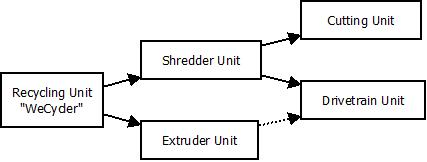
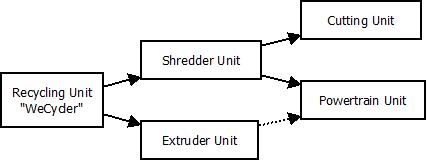
recycler readme vorbereitungen

Changed region(s): [[0.7307, 0.5864, 0.9742, 0.6481]]

diff --git a/recycler/README.md b/recycler/README.md
@@ -13,7 +13,7 @@
 
 + the [powertrain](#Power) module can be attached to either the shredder or the extruder with the purpose of saving weight and costs
 
-+ Special requirements for the recycler to be used in the cubefactory 2:
++ special requirements for the recycler to be used in the cubefactory 2:
 	+ to be compact (small package)
 	+ to be lightweight
 	+ low power consuption 
@@ -41,9 +41,9 @@ The Shredder aims to mechanically shred the input material into small, similar s
 
 
 ### Realization
-+ picture shredder __TODO__ (erstellen aus STEP/SLDPRT)
-+ the rotor is realized by a used (and damaged) hob cutter  (recycling!) 
-+ picture hob cutter __TODO__ (aus masterarbeit)
++ ![shredder](images/shredder.png)
++ the rotor is realized by a used (and damaged) milling cutter  (recycling!) 
++ picture milling cutter __TODO__ (aus masterarbeit)
 + the other parts are special components that have been manufactured for the WeCycler
 + To adapt to different materials, the speed (rpm) of the rotor is adjustable. Furthermore static blades can be moved to to change the distance between static and dynamic blades.
 + The output pellet size is determined by selection of a changeable filter (perforated plate)
@@ -76,10 +76,11 @@ Sieht so aus: (__TODO__ Bildquelle, Beschriftung der Einzelteile))![Extrudergrup
 
 + more detailed information on the single parts of the realized extruder unit [here](Extruder_Info.md)
  
-### Powertrain <a name="Power"></a>
+## Powertrain <a name="Power"></a>
 + For more information on the powertrain unit see [here](Powertrain_Info.md).
-+ The powertrain can be attached in 2 different positions: either it drives the the shredder or the extruder.
-+ __TODO__ Bild mit zwei Montagevarianten einfügen
++ The powertrain can be attached in 2 different positions: either it drives the the shredder (pink) or the extruder (green). This is due to the need of saving money, space and weight.
+
++ ![positions](images/powertrain_positions.jpg)
 ### Dieses Verzeichnis
 +  explodes views [here](CAD/exploded_views)
 +  BOM [here](BOM)
